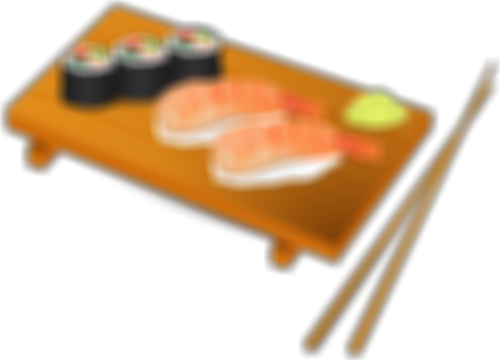
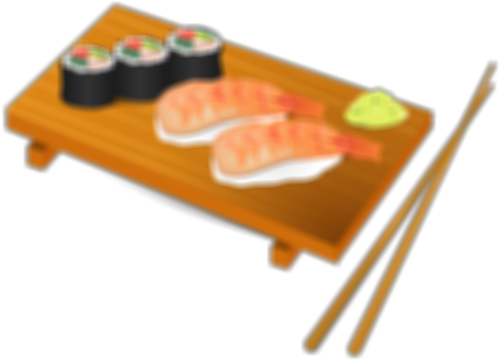
Add resize to readme

diff --git a/demo/src/main.rs b/demo/src/main.rs
@@ -54,7 +54,7 @@ fn main() -> Result<()> {
                 let (width, height) = operation.dimensions();
                 operation.resize((width / 2, height / 2), Resize::Linear)
             }
-            BOX_BLUR => operation.box_blur(15),
+            BOX_BLUR => operation.box_blur(9),
             GAUSSIAN_BLUR => operation.gaussian_blur(3.0),
             _ => operation,
         };

diff --git a/README.md b/README.md
@@ -30,6 +30,10 @@ Currently, contains:
 
 ![Box flip](sample/output/sushi_gaussianblur.png)
 
+* Resize
+
+![Half size](sample/output/sushi_half.png)
+
 Test images:
 * [Bled, Slovenia, from Ursa Bavcar](https://unsplash.com/photos/6O4zf9lga6Q)
 * [Sushi, by gnokii](https://openclipart.org/detail/132169/sushi)
